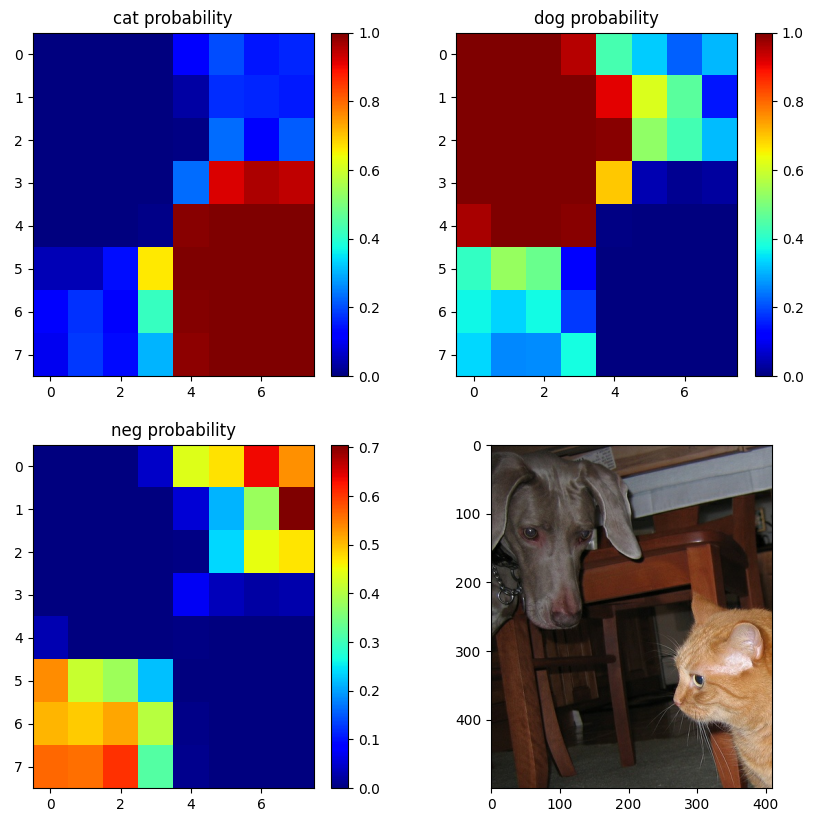
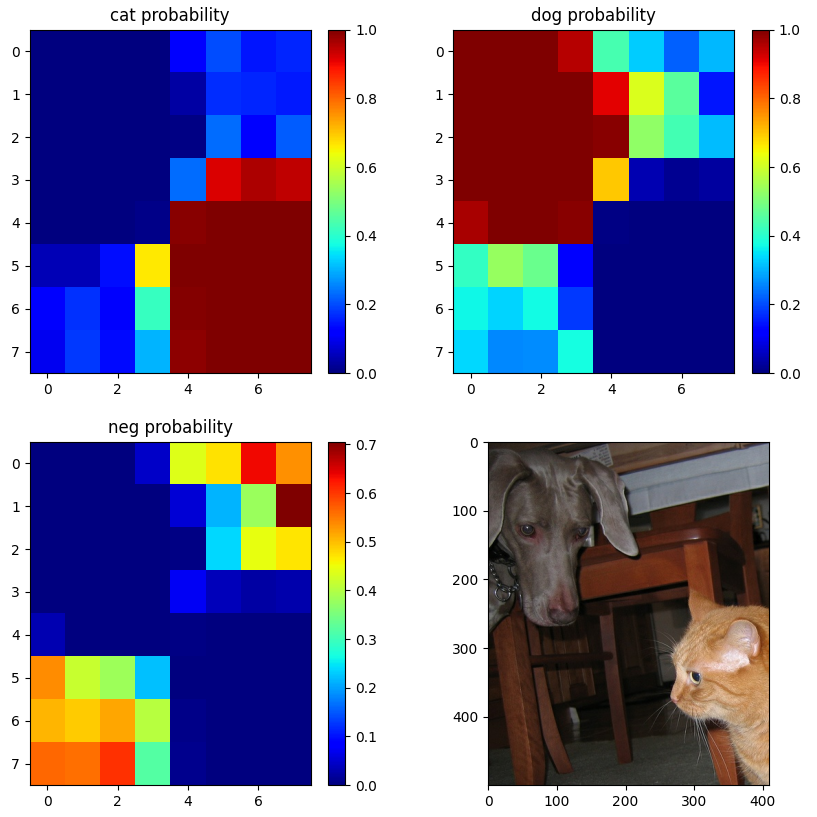
combined conv+saliency imgs, updated link

diff --git a/_posts/2020-12-08-RobotAutonomy.md b/_posts/2020-12-08-RobotAutonomy.md
@@ -54,9 +54,5 @@ A diagram showing the primary states and transitions of our finite state machine
 
 As of January 23rd, we're only a few weeks into the second part of this course, but we've already extensively looked into image recognition via convolutional neural networks in TensorFlow. Coming soon: manipulation, human interaction, and system architectures!
 
-<figure class="half">
-    <a href="/assets/img/274/conv.png"><img src="/assets/img/274/conv.png"></a>
-    <a href="/assets/img/274/saliency.png"><img src="/assets/img/274/saliency.png"></a>
-</figure>
-
+<a href="/assets/img/274/combined.png"><img src="/assets/img/274/combined.png"></a>
 
